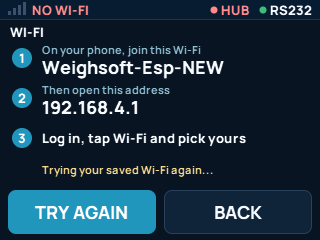
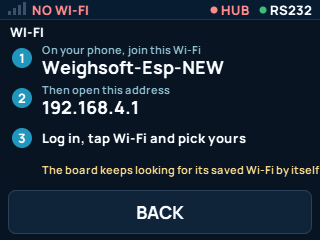
feat(wsoft-core): row keys, and no retry button on the Wi-Fi page
wsoft_ui_row_key says when a row of the screen must be painted again. The Wi-Fi page loses
TRY AGAIN: the firmware already retries its saved Wi-Fi without pause, so the page says
that and keeps the phone steps.

Changed region(s): [[0.0, 0.7875, 0.5938, 0.9917], [0.1562, 0.6708, 1.0, 0.7583], [0.6562, 0.8458, 0.8125, 0.9333]]

diff --git a/tools/wsoft-ui/ref.js b/tools/wsoft-ui/ref.js
@@ -221,7 +221,7 @@ const WsoftUi = (() => {
   const BOX = {
     wifiBar: [0, 0, 150, 20], slot: [6, 22, 308, 40], connect: [160, 26, 100, 32], dismiss: [266, 26, 42, 32],
     gross: [8, 190, 104, 46], menu: [120, 190, 72, 46], save: [200, 190, 112, 46],
-    back: [164, 190, 148, 44], wide: [8, 190, 304, 44], left: [8, 190, 148, 44],
+    back: [164, 190, 148, 44], wide: [8, 190, 304, 44],
   };
   const tileBox = (i) => [i % 2 ? 164 : 8, 46 + (i >> 1) * 48, 148, 44];
   const KEY_X = [8, 86, 164, 242];
@@ -397,9 +397,8 @@ const WsoftUi = (() => {
       c.text('Then open this address', 42, 90, TINY, T.soft, LEFT);
       c.text(m.address, 42, 107, MID, T.ink, LEFT);
       c.text('Log in, tap Wi-Fi and pick yours', 42, 138, SMALL, T.ink, LEFT);
-      c.text(m.wifi_trying ? 'Trying your saved Wi-Fi again...' : 'Or tap TRY AGAIN to use the saved Wi-Fi', 42, 170, TINY, m.wifi_trying ? T.wait_ink : T.soft, LEFT);
-      paintTile(c, T, BOX.left, '', 'TRY AGAIN', LOOK_ACCENT);
-      paintTile(c, T, BOX.back, '', 'BACK', LOOK_PLAIN);
+      c.text('The board keeps looking for its saved Wi-Fi by itself', 42, 170, TINY, T.wait_ink, LEFT);
+      paintTile(c, T, BOX.wide, '', 'BACK', LOOK_PLAIN);
     }
   }
 
@@ -517,7 +516,6 @@ const WsoftUi = (() => {
     m.pin_count = S.pin.length;
     m.address = m.page === PAGE_NO_PIN && up ? S.wifi.ip : S.wifi.apIp;
     m.ap_name = S.wifi.ap;
-    m.wifi_trying = S.wifi.trying;
     return m;
   }
 
@@ -528,7 +526,7 @@ const WsoftUi = (() => {
   function state(patch = {}) {
     const S = {
       dark: true, page: 'live', message: '', pin: '',
-      wifi: { up: true, ip: '192.168.0.142', bars: 3, ap: 'Weighsoft-Esp-NEW', apIp: '192.168.4.1', dismissed: false, trying: false },
+      wifi: { up: true, ip: '192.168.0.142', bars: 3, ap: 'Weighsoft-Esp-NEW', apIp: '192.168.4.1', dismissed: false },
       hub: 'online', source: 'RS232', linked: true, alarm: false, stable: true,
       gross: 50120, tare: 0, presetTare: 0, decimals: 3, unit: 'kg', hold: 'none',
       approval: false, check: 'off', seq: 0, audit: 0, plate: null,
@@ -549,7 +547,7 @@ const WsoftUi = (() => {
     ['Saved', 'SAVE shows the number of the saved weighing.', state({ save: { recent: { result: 'SAVED', seq: 8 } }, waiting: 'ALREADY' })],
     ['Nothing on the scale', 'No colour until a load is on, the same as the relays.', state({ gross: 0, save: { auto: false } })],
     ['Wi-Fi drops', 'A yellow alert with CONNECT and X. The top bar shows NO WI-FI in red.', state({ wifi: { up: false } })],
-    ['CONNECT tapped', 'It tries your saved Wi-Fi again and shows how to set it from a phone.', state({ page: 'wifi', wifi: { up: false, trying: true } })],
+    ['CONNECT tapped', 'The steps to put the board on Wi-Fi from a phone. It keeps looking for its saved Wi-Fi by itself.', state({ page: 'wifi', wifi: { up: false } })],
     ['Scale unplugged', 'A red note says what to check. The weight shows dashes, never an old number.', state({ linked: false, waiting: 'NO_SIGNAL' })],
     ['Approval on, with tare', 'Trade checks, the plate line, the audit counter and NET (TARE), in their old words.', state({ source: 'RS485', approval: true, check: 'ok', seq: 41, audit: 7, decimals: 2, gross: 52600, tare: 2500, presetTare: 2500, plate: { sa: '1234/56', max: '150', min: '1', e: '0.05' } })],
     ['No product picked', 'Plain weighing. The bar goes grey and says where to pick a product.', state({ product: null })],

diff --git a/tools/wsoft-ui/mockup.html b/tools/wsoft-ui/mockup.html
@@ -103,7 +103,7 @@ canvas { display: block; width: 100%; height: auto; border-radius: 3px; }
       <li>The weight panel follows the relays exactly: yellow for LOW, green for OK, red for HIGH, and no colour when nothing is on the scale.</li>
       <li>It starts in dark mode, like the Edge. Light mode is one tap in the Menu and the board remembers it.</li>
       <li>The red and yellow notes sit above the weight, so the weight and the Hi-Lo bar are never covered.</li>
-      <li>CONNECT tries your saved Wi-Fi again and shows the phone steps. The screen never shows a password.</li>
+      <li>CONNECT shows the phone steps. The board keeps looking for its saved Wi-Fi by itself, so there is nothing to retry. The screen never shows a password.</li>
       <li>GROSS, MENU and SAVE are three separate boxes with space between them.</li>
       <li>The PIN pad is laid out like a phone.</li>
       <li>The trade words, the plate and the audit counter keep their exact wording.</li>
@@ -167,7 +167,7 @@ function build() {
 function tryIt() {
   const canvas = document.getElementById('try');
   const sim = U.state({ save: { auto: false } });
-  let boardId = 'yellow', c = canvasOf('yellow'), movedAt = 0, armedAt = 0, savedLoad = false, retryAt = 0;
+  let boardId = 'yellow', c = canvasOf('yellow'), movedAt = 0, armedAt = 0, savedLoad = false;
   const say = (m) => { sim.message = m; };
   const inBox = (b, x, y) => x >= b[0] - 3 && x < b[0] + b[2] + 3 && y >= b[1] - 3 && y < b[1] + b[3] + 3;
 
@@ -176,7 +176,6 @@ function tryIt() {
     sim.stable = now - movedAt > 900;
     if (sim.gross <= 0) savedLoad = false;
     if (sim.save.recent && now - sim.save.recent.at > 3000) sim.save.recent = null;
-    if (sim.wifi.trying && now > retryAt) sim.wifi.trying = false;
     const z = U.zoneOf(sim), load = sim.gross > 0, out = z === 1 || z === 3;
     sim.waiting = !sim.linked ? 'NO_SIGNAL' : savedLoad && load ? 'ALREADY'
       : load && out ? 'OUT_OF_LIMITS' : load && !sim.stable && now - movedAt > 3000 ? 'NOT_STABLE' : 'NONE';
@@ -202,7 +201,7 @@ function tryIt() {
     if ((z === 1 || z === 3) && Date.now() - armedAt > 5000) { armedAt = Date.now(); return res('OUT_OF_LIMITS'); }
     saveNow();
   };
-  const openWifi = () => { sim.page = 'wifi'; say(''); if (!sim.wifi.up) { sim.wifi.trying = true; retryAt = Date.now() + 4000; } };
+  const openWifi = () => { sim.page = 'wifi'; say(''); };
   const tap = (x, y) => {
     const m = U.modelOf(sim), B = U.BOX;
     if (sim.page === 'live') {
@@ -235,8 +234,7 @@ function tryIt() {
       else if (inBox(K(0, 3, 3, 1), x, y)) { if (sim.pin.length < 6) sim.pin += '0'; }
       else for (let i = 0; i < 9; i++) if (inBox(K(i % 3, Math.floor(i / 3), 1, 1), x, y) && sim.pin.length < 6) sim.pin += String(i + 1);
     } else if (sim.page === 'wifi') {
-      if (!sim.wifi.up && inBox(B.left, x, y)) { sim.wifi.trying = true; retryAt = Date.now() + 4000; }
-      else if (inBox(sim.wifi.up ? B.wide : B.back, x, y)) { sim.page = 'live'; say(''); }
+      if (inBox(B.wide, x, y)) { sim.page = 'live'; say(''); }
     } else { sim.page = 'menu'; }
   };
   canvas.addEventListener('click', (ev) => {

diff --git a/test/test_wsoft_ui/test_main.cpp b/test/test_wsoft_ui/test_main.cpp
@@ -540,11 +540,9 @@ void test_model_pages() {
   in.wifi_up = false;
   in.address = "192.168.4.1";
   in.ap_name = "Weighsoft-Esp-NEW";
-  in.wifi_trying = true;
   wsoft_ui_model(in, &model);
   TEST_ASSERT_EQUAL_STRING("WI-FI", model.title);
   TEST_ASSERT_EQUAL_STRING("Weighsoft-Esp-NEW", model.ap_name);
-  TEST_ASSERT_TRUE(model.wifi_trying);
 }
 
 void test_model_same_facts_same_bytes() {
@@ -562,6 +560,56 @@ void test_model_same_facts_same_bytes() {
   wsoft_ui_model(in, &a);
   TEST_ASSERT_EQUAL(sizeof a.ip - 1, strlen(a.ip));
   TEST_ASSERT_EQUAL(sizeof a.message - 1, strlen(a.message));
+}
+
+void test_only_rows_that_changed_get_painted() {
+  // The board paints a row again when its key changes. A row's key covers what it draws.
+  WsoftUiInput in = weighing();
+  WsoftHiloProduct product = maize();
+  in.product = &product;
+  in.product_count = 1;
+  in.zone = WSOFT_RELAY_OK;
+  static WsoftUiModel a, b;
+  wsoft_ui_model(in, &a);
+  wsoft_ui_model(in, &b);
+  for (int row = 0; row < WSOFT_UI_ROW_COUNT; row++) {
+    TEST_ASSERT_EQUAL_HEX32(wsoft_ui_row_key(a, row), wsoft_ui_row_key(b, row));
+  }
+  // The weight moves 10 g: the weight, the marker and GROSS change; the bar and trade row do not.
+  in.gross = in.net = 50130;
+  wsoft_ui_model(in, &b);
+  TEST_ASSERT_EQUAL_HEX32(wsoft_ui_row_key(a, WSOFT_UI_ROW_BAR), wsoft_ui_row_key(b, WSOFT_UI_ROW_BAR));
+  TEST_ASSERT_EQUAL_HEX32(wsoft_ui_row_key(a, WSOFT_UI_ROW_TOP), wsoft_ui_row_key(b, WSOFT_UI_ROW_TOP));
+  TEST_ASSERT_NOT_EQUAL(wsoft_ui_row_key(a, WSOFT_UI_ROW_WEIGHT), wsoft_ui_row_key(b, WSOFT_UI_ROW_WEIGHT));
+  TEST_ASSERT_NOT_EQUAL(wsoft_ui_row_key(a, WSOFT_UI_ROW_HILO), wsoft_ui_row_key(b, WSOFT_UI_ROW_HILO));
+  TEST_ASSERT_NOT_EQUAL(wsoft_ui_row_key(a, WSOFT_UI_ROW_BOTTOM), wsoft_ui_row_key(b, WSOFT_UI_ROW_BOTTOM));
+  // Only the steady word changes: only the trade row.
+  in.gross = in.net = 50120;
+  in.stable = false;
+  wsoft_ui_model(in, &b);
+  TEST_ASSERT_NOT_EQUAL(wsoft_ui_row_key(a, WSOFT_UI_ROW_TOP), wsoft_ui_row_key(b, WSOFT_UI_ROW_TOP));
+  TEST_ASSERT_EQUAL_HEX32(wsoft_ui_row_key(a, WSOFT_UI_ROW_WEIGHT), wsoft_ui_row_key(b, WSOFT_UI_ROW_WEIGHT));
+  TEST_ASSERT_EQUAL_HEX32(wsoft_ui_row_key(a, WSOFT_UI_ROW_BOTTOM), wsoft_ui_row_key(b, WSOFT_UI_ROW_BOTTOM));
+  // The address changes: the status bar, and the pages that show it. Not the weight.
+  in.stable = true;
+  in.ip = "192.168.0.143";
+  wsoft_ui_model(in, &b);
+  TEST_ASSERT_NOT_EQUAL(wsoft_ui_row_key(a, WSOFT_UI_ROW_BAR), wsoft_ui_row_key(b, WSOFT_UI_ROW_BAR));
+  TEST_ASSERT_NOT_EQUAL(wsoft_ui_row_key(a, WSOFT_UI_ROW_PAGE), wsoft_ui_row_key(b, WSOFT_UI_ROW_PAGE));
+  TEST_ASSERT_EQUAL_HEX32(wsoft_ui_row_key(a, WSOFT_UI_ROW_WEIGHT), wsoft_ui_row_key(b, WSOFT_UI_ROW_WEIGHT));
+  // GROSS is greyed without a signal, so the bottom row follows `live` too.
+  in.ip = "192.168.0.142";
+  wsoft_ui_model(in, &a);
+  a.live = true;
+  b = a;
+  b.live = false;
+  TEST_ASSERT_NOT_EQUAL(wsoft_ui_row_key(a, WSOFT_UI_ROW_BOTTOM), wsoft_ui_row_key(b, WSOFT_UI_ROW_BOTTOM));
+  // Light or dark changes every row.
+  b = a;
+  b.dark = !a.dark;
+  for (int row = 0; row < WSOFT_UI_ROW_COUNT; row++) {
+    TEST_ASSERT_NOT_EQUAL(wsoft_ui_row_key(a, row), wsoft_ui_row_key(b, row));
+  }
 }
 
 void test_model_plate_line() {
@@ -676,6 +724,7 @@ int main(int, char **) {
   RUN_TEST(test_model_menu_tiles);
   RUN_TEST(test_model_pages);
   RUN_TEST(test_model_same_facts_same_bytes);
+  RUN_TEST(test_only_rows_that_changed_get_painted);
   RUN_TEST(test_model_plate_line);
   RUN_TEST(test_there_is_a_golden_for_every_screen);
   RUN_TEST(test_every_screen_on_the_yellow_board);

diff --git a/lib/wsoft_core/src/wsoft_ui_paint.cpp b/lib/wsoft_core/src/wsoft_ui_paint.cpp
@@ -212,10 +212,8 @@ static void paint_page(WsoftCanvas &c, const WsoftUiModel &m, const Theme &T) {
     c.text("Then open this address", 42, 90, TINY, T.soft);
     c.text(m.address, 42, 107, MID, T.ink);
     c.text("Log in, tap Wi-Fi and pick yours", 42, 138, SMALL, T.ink);
-    c.text(m.wifi_trying ? "Trying your saved Wi-Fi again..." : "Or tap TRY AGAIN to use the saved Wi-Fi", 42, 170, TINY,
-           m.wifi_trying ? T.wait_ink : T.soft);
-    paint_tile(c, T, WSOFT_UI_BOX_LEFT, "", "TRY AGAIN", WSOFT_UI_LOOK_ACCENT);
-    paint_tile(c, T, WSOFT_UI_BOX_BACK, "", "BACK", WSOFT_UI_LOOK_PLAIN);
+    c.text("The board keeps looking for its saved Wi-Fi by itself", 42, 170, TINY, T.wait_ink);
+    paint_tile(c, T, WSOFT_UI_BOX_WIDE, "", "BACK", WSOFT_UI_LOOK_PLAIN);
   }
 }
 
@@ -231,6 +229,34 @@ bool wsoft_ui_row_on_page(int row, int page) {
   if (row == WSOFT_UI_ROW_BAR) return true;
   if (row == WSOFT_UI_ROW_PAGE) return page != WSOFT_UI_PAGE_LIVE;
   return row > WSOFT_UI_ROW_BAR && row < WSOFT_UI_ROW_PAGE && page == WSOFT_UI_PAGE_LIVE;
+}
+
+// The model's fields are in the order of the rows, so a row's key is the CRC of its stretch
+// of the model, plus the mode and page that every row depends on.
+static uint32_t stretch(uint32_t crc, const WsoftUiModel &m, size_t from, size_t to) {
+  return wsoft_crc32(crc, (const uint8_t *)&m + from, to - from);
+}
+
+uint32_t wsoft_ui_row_key(const WsoftUiModel &m, int row) {
+  const size_t bar = offsetof(WsoftUiModel, wifi_up), top = offsetof(WsoftUiModel, slot);
+  const size_t weight = offsetof(WsoftUiModel, label), hilo = offsetof(WsoftUiModel, word);
+  const size_t bottom = offsetof(WsoftUiModel, gross), page = offsetof(WsoftUiModel, title);
+  uint32_t key = stretch(0, m, 0, bar);  // dark, page
+  switch (row) {
+    case WSOFT_UI_ROW_BAR: return stretch(key, m, bar, top);
+    case WSOFT_UI_ROW_TOP: return stretch(key, m, top, weight);
+    case WSOFT_UI_ROW_WEIGHT: return stretch(key, m, weight, hilo);
+    case WSOFT_UI_ROW_HILO: return stretch(key, m, hilo, bottom);
+    case WSOFT_UI_ROW_BOTTOM:
+      // GROSS is greyed when no weight arrives.
+      key = stretch(key, m, bottom, page);
+      return stretch(key, m, offsetof(WsoftUiModel, live), offsetof(WsoftUiModel, live) + sizeof m.live);
+    case WSOFT_UI_ROW_PAGE:
+      // The Wi-Fi page shows the address from the status bar's part.
+      key = stretch(key, m, page, sizeof m);
+      return stretch(key, m, bar, top);
+    default: return 0;
+  }
 }
 
 void wsoft_ui_paint_row(WsoftCanvas &c, const WsoftUiModel &m, int row) {

diff --git a/lib/wsoft_core/src/wsoft_ui_paint.h b/lib/wsoft_core/src/wsoft_ui_paint.h
@@ -106,7 +106,6 @@ struct WsoftUiModel {
   uint8_t pin_count;  // digits typed on the PIN pad
   char address[20];   // the address to open: on the no-PIN note and the Wi-Fi page
   char ap_name[34];   // the board's own hotspot
-  bool wifi_trying;
 };
 
 enum {
@@ -127,6 +126,10 @@ WsoftUiSpan wsoft_ui_row_span(int row);
 // The live page is the bar and the four live rows; any other page is the bar and the page row.
 bool wsoft_ui_row_on_page(int row, int page);
 
+// A number that changes when what the row draws changes: the board paints a row again only
+// when its key moved. The model must have been zero-filled before it was filled in.
+uint32_t wsoft_ui_row_key(const WsoftUiModel &model, int row);
+
 // Paints one row into the canvas's window. Dots of the row outside the window are skipped.
 void wsoft_ui_paint_row(WsoftCanvas &canvas, const WsoftUiModel &model, int row);
 // Paints every row of the model's page.
@@ -145,7 +148,6 @@ static const WsoftUiBox WSOFT_UI_BOX_MENU = {120, 190, 72, 46};
 static const WsoftUiBox WSOFT_UI_BOX_SAVE = {200, 190, 112, 46};
 static const WsoftUiBox WSOFT_UI_BOX_BACK = {164, 190, 148, 44};   // bottom right of a page
 static const WsoftUiBox WSOFT_UI_BOX_WIDE = {8, 190, 304, 44};     // one button across a page
-static const WsoftUiBox WSOFT_UI_BOX_LEFT = {8, 190, 148, 44};     // bottom left of a page
 // Menu tile i: two columns, rows of 48.
 WsoftUiBox wsoft_ui_tile_box(int i);
 // A PIN pad key: column 0..3, row 0..3, spanning cols x rows keys.

diff --git a/test/test_wsoft_ui/golden.h b/test/test_wsoft_ui/golden.h
@@ -4,5 +4,5 @@
 
 #include <stdint.h>
 
-static const uint32_t GOLDEN_1X[] = {0x75691630, 0xCB8630B6, 0x13C357CE, 0xC47B0896, 0x57511163, 0xE869EF95, 0x4042B08A, 0x9F8650E9, 0x91E90C57, 0xFDF178CC, 0xCDEDF44E, 0x26D96EE3, 0x205B387A, 0xC8444119, 0x706241EF, 0xAD93FFB4, 0x1E099634, 0x63E2E738, 0x29F2D94F, 0xC50FF094};
-static const uint32_t GOLDEN_2X[] = {0xB8624AC4, 0xEE8355B3, 0x3DF3B986, 0x12BBD391, 0xC2C7FFCC, 0x1E25A252, 0x087B2AE7, 0x4D5EC98B, 0x856FCB6E, 0x328374DB, 0x98D1B276, 0x8241D678, 0xCC0B4B47, 0x1A5164EE, 0x563032EB, 0xE434043F, 0x63F98DCA, 0x68E5256D, 0x9B7D4A8C, 0x5956D529};
+static const uint32_t GOLDEN_1X[] = {0x75691630, 0xCB8630B6, 0x13C357CE, 0xC47B0896, 0x57511163, 0xE869EF95, 0x4042B08A, 0x0169D3E2, 0x91E90C57, 0xFDF178CC, 0xCDEDF44E, 0x26D96EE3, 0x205B387A, 0xC8444119, 0x706241EF, 0xAD93FFB4, 0x1E099634, 0xA7C846C0, 0x29F2D94F, 0xC50FF094};
+static const uint32_t GOLDEN_2X[] = {0xB8624AC4, 0xEE8355B3, 0x3DF3B986, 0x12BBD391, 0xC2C7FFCC, 0x1E25A252, 0x087B2AE7, 0x6FA89258, 0x856FCB6E, 0x328374DB, 0x98D1B276, 0x8241D678, 0xCC0B4B47, 0x1A5164EE, 0x563032EB, 0xE434043F, 0x63F98DCA, 0x6F641277, 0x9B7D4A8C, 0x5956D529};

diff --git a/lib/wsoft_core/src/wsoft_ui_model.h b/lib/wsoft_core/src/wsoft_ui_model.h
@@ -72,7 +72,6 @@ struct WsoftUiInput {
   int pin_count = 0;          // digits typed
   const char *address = "";   // to open in a browser: the no-PIN note and the Wi-Fi page
   const char *ap_name = "";   // the board's own hotspot
-  bool wifi_trying = false;
 };
 
 // Fills *model (every byte of it) from the facts.

diff --git a/lib/wsoft_core/src/gen/wsoft_ui_presets.h b/lib/wsoft_core/src/gen/wsoft_ui_presets.h
@@ -438,7 +438,6 @@ inline bool wsoft_ui_preset(int n, WsoftUiModel *m) {
       m->tile_count = 5;
       WSOFT_UI_PRESET_SET(m->address, "192.168.4.1");
       WSOFT_UI_PRESET_SET(m->ap_name, "Weighsoft-Esp-NEW");
-      m->wifi_trying = true;
       return true;
     case 8:  // Scale unplugged
       m->dark = true;

diff --git a/lib/wsoft_core/src/wsoft_ui_model.cpp b/lib/wsoft_core/src/wsoft_ui_model.cpp
@@ -268,5 +268,4 @@ void wsoft_ui_model(const WsoftUiInput &in, WsoftUiModel *m) {
   m->pin_count = (uint8_t)(in.pin_count < 0 ? 0 : in.pin_count > 6 ? 6 : in.pin_count);
   put(m->address, in.address);
   put(m->ap_name, in.ap_name);
-  m->wifi_trying = in.wifi_trying;
 }
